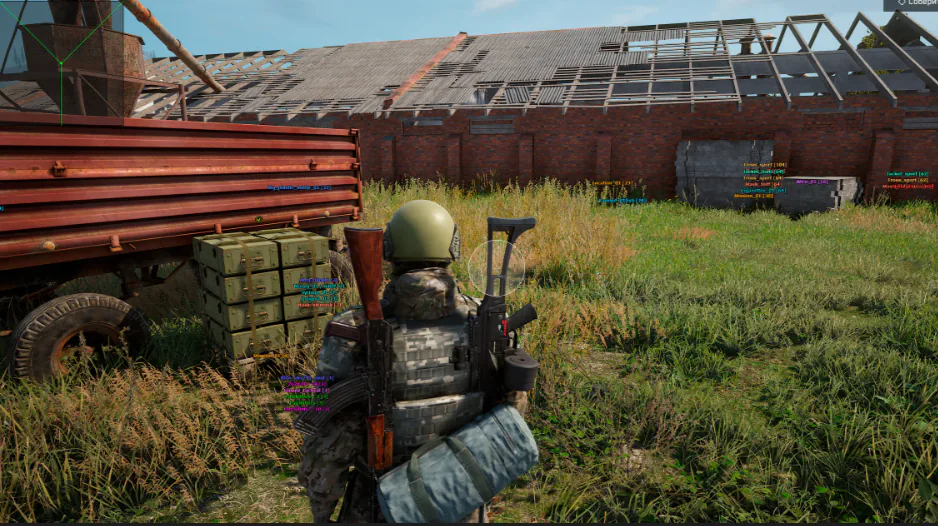
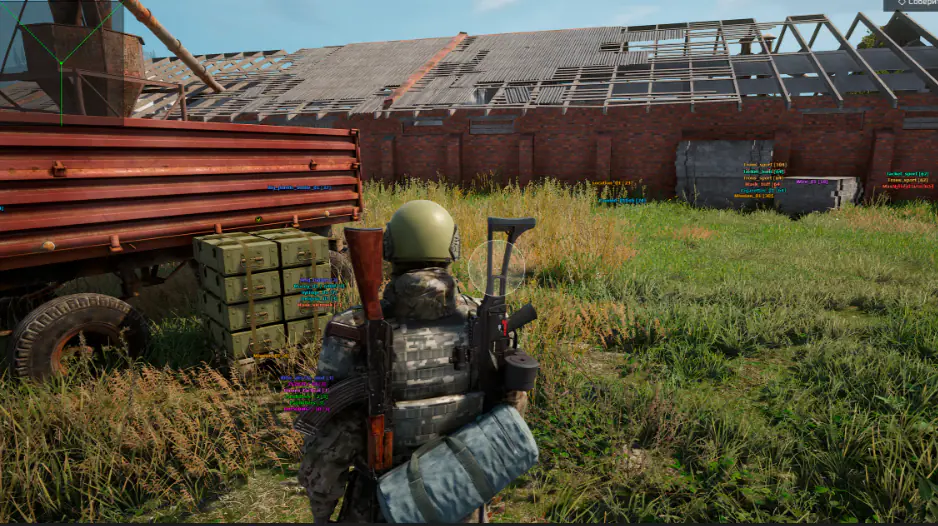
Fix large images: relocate sources, recompress screenshots, add audit
- Move deadside-hero-source.png out of public/ into scripts/assets/
- Remove crawlable orphan PNGs (hero fallback, zadeyo-logo, logo PNG)
- Recompress screenshot-03/05 and legacy aliases under 100KB (WebP q75)
- Point schema logoRaster at deadside-cheats-logo.webp (45KB vs 141KB)
- Stop fetch:hero and fetch:steam-hero from writing large PNG fallbacks
- Add scripts/audit-large-images.mjs to postbuild and build:validate

diff --git a/src/data/brand.ts b/src/data/brand.ts
@@ -33,7 +33,7 @@ export const brand = {
 	antiCheat: 'BattlEye',
 
 	logo: '/images/deadside-cheats-logo.webp',
-	logoRaster: '/images/deadside-cheats-logo.png',
+	logoRaster: '/images/deadside-cheats-logo.webp',
 	logoRasterWidth: 512,
 	logoRasterHeight: 512,
 	logoAlt: 'Deadside Cheats logo',
